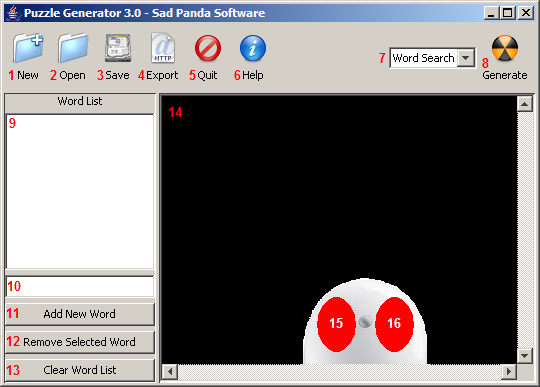
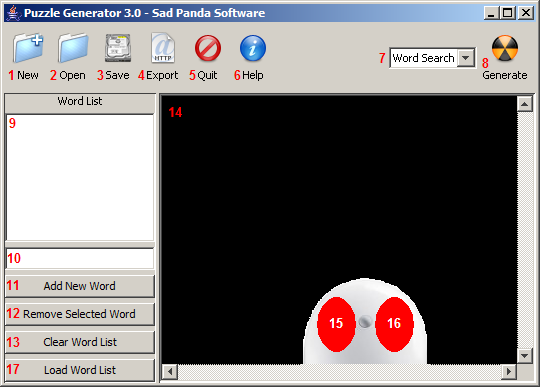
Help is updated

diff --git a/Puzzles/src/gui/Window.java b/Puzzles/src/gui/Window.java
@@ -111,7 +111,7 @@ public class Window extends JPanel {
           c.setLayout (new BorderLayout(5, 5));
           
           Container d = new Container();
-          d.setLayout (new GridLayout (8, 2, 0, 5));
+          d.setLayout (new GridLayout (9, 2, 0, 5));
           d.add (new JLabel ("1. Clears all words and puzzles"));
           d.add (new JLabel ("9. Word List area"));
           d.add (new JLabel ("2. Prompts user to open a file"));
@@ -128,6 +128,8 @@ public class Window extends JPanel {
           d.add (new JLabel ("15. LMB - Exports a puzzle (generates if no puzzle)"));
           d.add (new JLabel ("8. Generates a puzzle of the selected type"));
           d.add (new JLabel ("16. RMB - Generates a puzzle"));
+          d.add (new JLabel());
+          d.add(new JLabel("17. Adds word to the list from a file"));
           
           c.add (new JLabel (new ImageIcon("images/helpImage.PNG")), BorderLayout.CENTER);
           c.add (d, BorderLayout.SOUTH);
